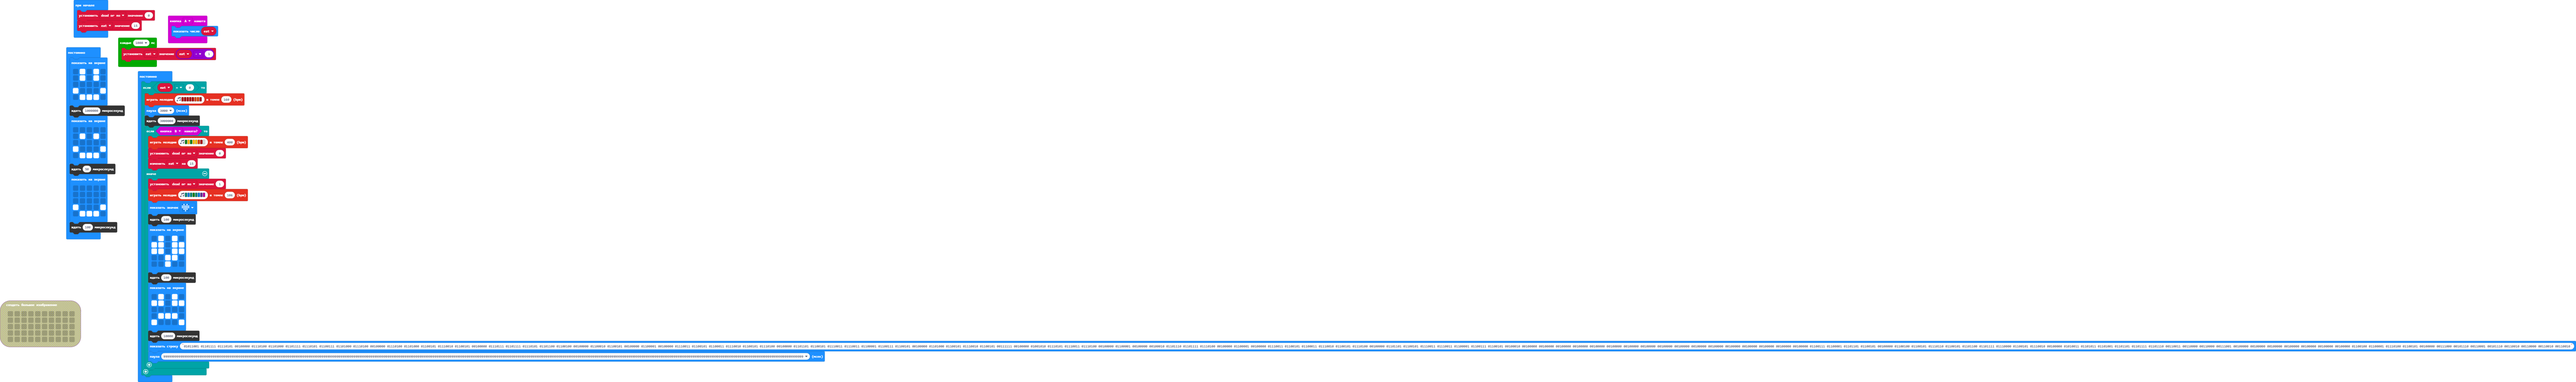
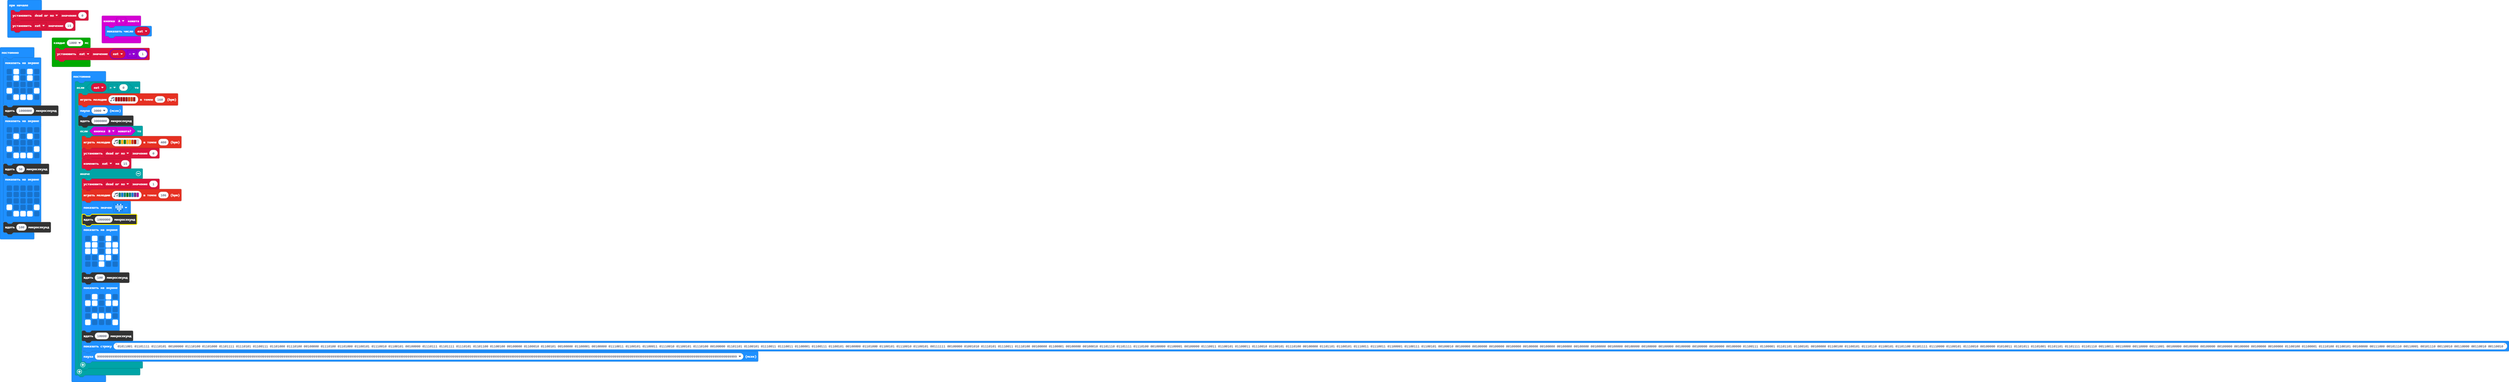
normal time! ;)

diff --git a/main.ts b/main.ts
@@ -46,7 +46,7 @@ basic.forever(function () {
             dead_or_no = 1
             music.playMelody("F E F G F E D C ", 106)
             basic.showIcon(IconNames.Heart)
-            control.waitMicros(100)
+            control.waitMicros(1000000)
             basic.showLeds(`
                 . # . # .
                 # # . # #
